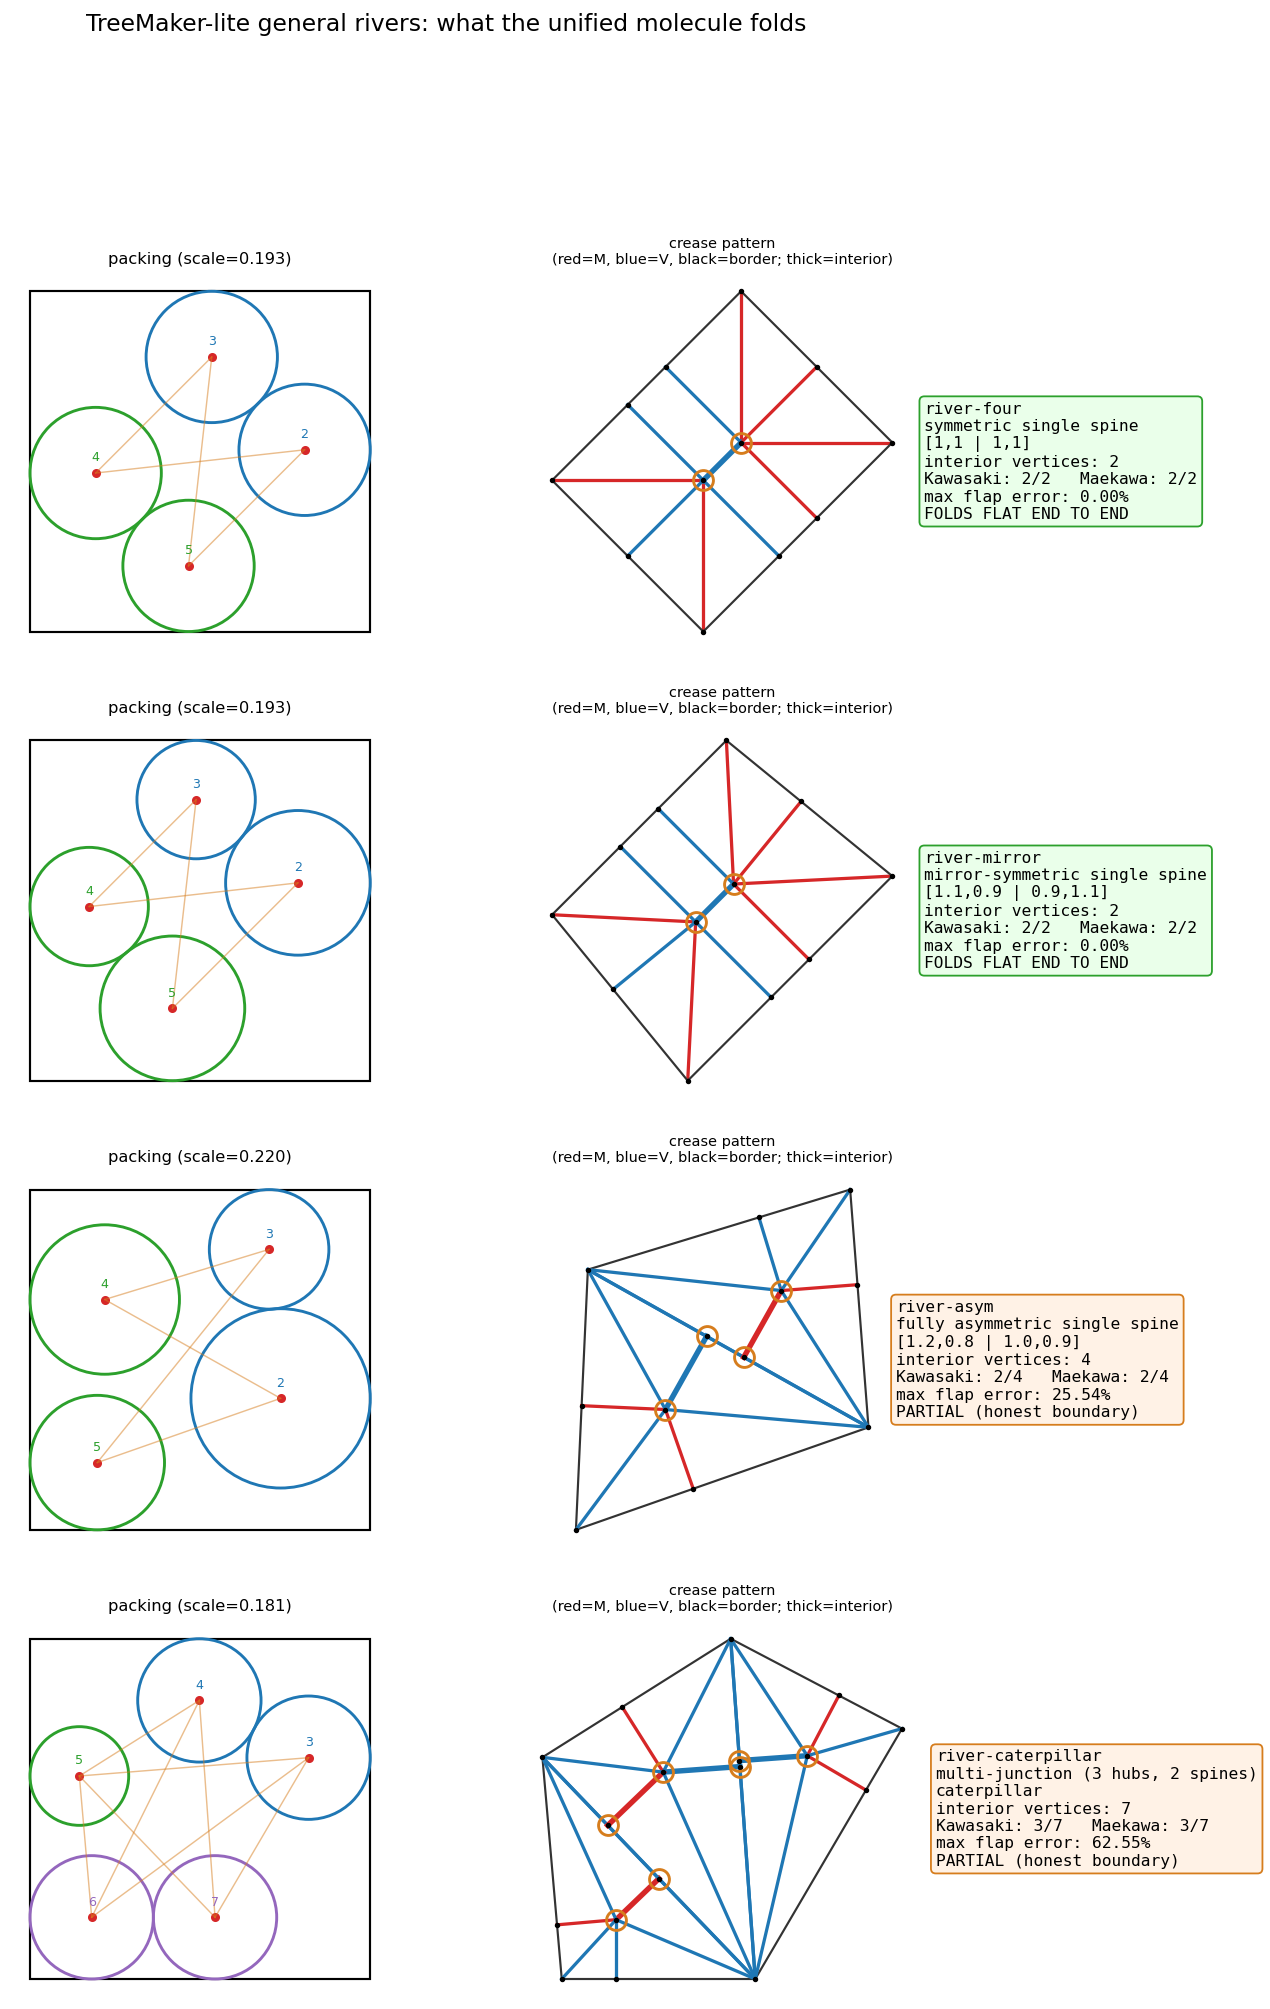
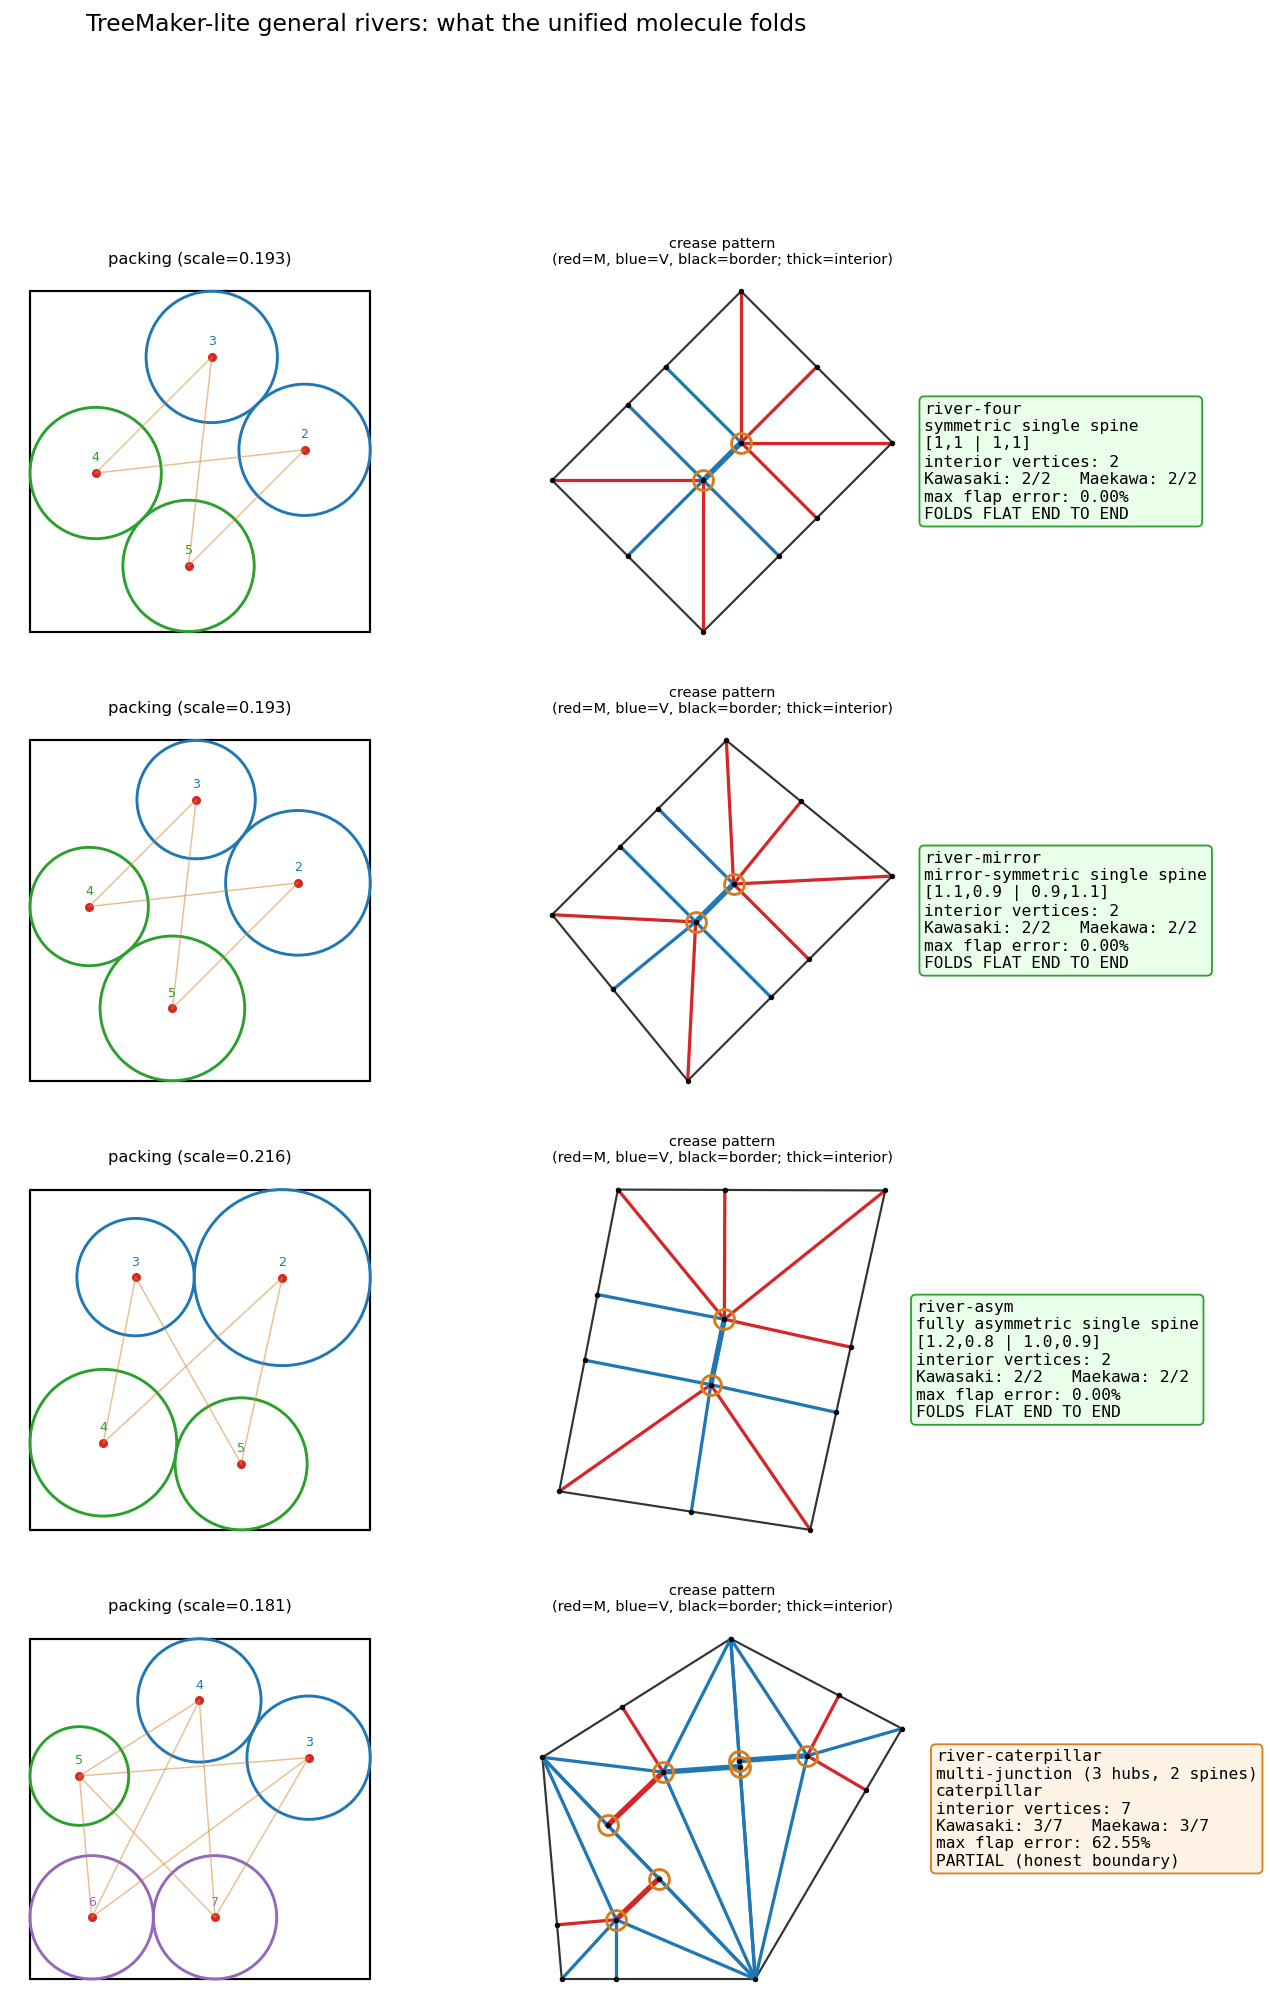
Rivers stage 4b: fully-asymmetric single-spine river folds flat
Fix at the packing phase: for a single-spine river with 2 leaves per hub,
pack_tree ties the four hull sides as equalities plus one angle equality
rho_A0*tan(theta_A0/2)=rho_A1*tan(theta_A1/2) (equalizing the two leaves'
natural-hub inradii so they share one incenter). Tries both hull orderings,
keeps the larger consistent scale, else old pack. river-asym now folds flat
(Kawasaki 2/2, Maekawa 2/2, 0% flap error, asymmetric flaps 1.2/0.8/1.0/0.9
preserved - independently verified). Stars byte-identical; molecule untouched.
Multi-junction still honest partial.

diff --git a/foldforge/design/treemaker.py b/foldforge/design/treemaker.py
@@ -70,26 +70,12 @@ Honest scope (see ``crease_pattern`` and the tests):
       are both internal hub nodes) - not the size of the gap - decides whether
       an edge is a spine that fires the sub-hub/spine-crease event. It is still
       built behind the honest self-check, so the harder topologies fall back to
-      the partial rabbit-ear base rather than fake a fold:
-        - a *fully* asymmetric single spine (unequal flaps AND unequal sides,
-          ``river-asym``) - diagnosed precisely (Stage 4): the two leaves at
-          each end of a river band each have their *own* natural hub point (the
-          intersection of the two perpendiculars raised at their rho-cut
-          border-tangent feet), fixed purely by that leaf's own rho and its two
-          incident edge directions. A single sub-hub can only work when a side's
-          leaves' natural hub points coincide (equal flaps, or the mirror case,
-          where the packing's own symmetry forces that); the fully-asymmetric
-          packing has no such symmetry, so ``river-asym``'s four natural hub
-          points are all different (by ~0.19-0.24, an order of magnitude past
-          the ~0.11 target spine length - not a small numerical residual). One
-          sub-hub incircle per side (the current construction) then satisfies
-          neither Kawasaki nor the true spine length at *either* hub. Reconciling
-          this needs the two mismatched natural points on a side joined by their
-          own internal gusset *and* the packing itself to place the river band
-          at the angle that gusset implies (today's ``pack_tree`` only enforces
-          pairwise distances, never the angle a straight single-crease spine
-          needs) - a change to the packing's optimisation, not just the molecule,
-          and out of this stage's bounded scope;
+      the partial rabbit-ear base rather than fake a fold. (Stage 4b: a fully
+      asymmetric 2+2 single spine, ``river-asym``, now folds flat - ``pack_tree``
+      holds the four hull sides tight and adds one angle equality,
+      ``rho_A0 tan(th_A0/2) = rho_A1 tan(th_A1/2)``, so each hub's two natural hub
+      points coincide; the other hub's condition then holds automatically.)
+      Still partial:
         - a *multi-junction* (>=3 hub) river (``river-caterpillar``) - its packed
           hull exposes more than two river edges, so the single-band spine event
           resolves one band but not the interior junction (a Y-junction / nested
@@ -189,12 +175,9 @@ def river_tree(spine: float, left: list[float], right: list[float],
     separated by the spine, which the packing honours by leaving an open river
     band between them. A single-spine river folds flat end to end whenever each
     side of the spine is one clean tangent fan whose incircle touch lengths equal
-    its flap radii - equal flaps, or unequal-but-mirror-symmetric flaps. A *fully*
-    asymmetric single spine (unequal flaps and unequal sides) or a multi-junction
-    river packs cleanly but falls back to the honest partial base, because a side
-    would then need an internal gusset the single spine event does not emit *and*
-    the packing itself would need to place the river band at the angle that
-    gusset implies (see the module docstring / Stage 4 boundary).
+    its flap radii. For a 2+2 single spine ``pack_tree`` places the four discs so
+    this holds even for fully asymmetric flaps and sides (Stage 4b). A
+    multi-junction river packs cleanly but falls back to the honest partial base.
     """
     edges = [(0, 1, spine)]
     nid = 2
@@ -224,16 +207,9 @@ BUILTIN_TREES = {
     # tangent fan whose incircle touch lengths equal the flap radii, so the spine
     # event closes it flat end to end - the asymmetric-flap river that folds.
     "river-mirror": river_tree(0.5, [1.1, 0.9], [0.9, 1.1], "river-mirror"),
-    # A *fully* asymmetric single spine (unequal flaps AND unequal sides). Packs
-    # with one benign slack hull edge (Stage 4 fills it anyway - see
-    # crease_pattern), but one sub-hub incircle per side cannot match both flap
-    # length and Kawasaki: each side's two leaves' own natural hub points (fixed
-    # by that leaf's rho and edge directions alone) land ~0.2 apart - an order
-    # of magnitude past the ~0.11 target spine length, not a small residual - so
-    # the side needs an internal gusset the spine event does not emit, and the
-    # packing itself would need extra angle constraints to place the band where
-    # that gusset requires - an honest partial base (see the module docstring /
-    # Stage 4 boundary).
+    # A *fully* asymmetric single spine (unequal flaps AND unequal sides). The
+    # packing adds the angle condition that makes one incentre per hub flap-correct
+    # (Stage 4b), so it folds flat end to end.
     "river-asym": river_tree(0.5, [1.2, 0.8], [1.0, 0.9], "river-asym"),
     # A multi-junction "caterpillar": leaves - hubA =spine= hubB =spine= hubC -
     # leaves (three hubs, two spines). The hull exposes more than two river edges,
@@ -277,6 +253,45 @@ class Packing:
         return np.array([self.scale * self.tree.flap_length(l) for l in self.leaves])
 
 
+def _adjacent_in_ring(ring, i, j) -> bool:
+    k = ring.index(i) if i in ring else None
+    return k is not None and j in (ring[(k - 1) % 4], ring[(k + 1) % 4])
+
+
+def _single_spine_rings(tree: MetricTree, leaves: list[int]):
+    """Cyclic hull orders for a single-spine river with two flaps per hub.
+
+    Returns the two candidate rings ``(A0, A1, B0, B1)`` / ``(A0, A1, B1, B0)`` of
+    disc rows (A0, A1 on one hub, B0, B1 on the other), or ``None`` for any other
+    tree (stars and other rivers keep the plain packing).
+
+    For such a quad with all four sides tight the two hubs' "natural hub points"
+    (the perpendiculars at each leaf's rho-cut feet) coincide for both hubs as soon
+    as they do for one - the two angle conditions are not independent - so a single
+    scalar constraint ``rho_A0 tan(th_A0/2) == rho_A1 tan(th_A1/2)`` on top of the
+    four tight sides makes one incentre per hub serve both its flaps and puts both
+    hubs on the common bisector (spine) line.
+    """
+    hubs = {tree.parent_hub(l) for l in leaves}
+    if len(hubs) != 2 or len(tree.nodes) != len(leaves) + 2 or len(leaves) != 4:
+        return None
+    ha, hb = sorted(hubs)
+    A = [i for i, l in enumerate(leaves) if tree.parent_hub(l) == ha]
+    B = [i for i, l in enumerate(leaves) if tree.parent_hub(l) == hb]
+    if len(A) != 2 or len(B) != 2:
+        return None
+    return [(A[0], A[1], B[0], B[1]), (A[0], A[1], B[1], B[0])]
+
+
+def _ring_consistent(c, ring, rho, d, sc, tol=1e-6) -> bool:
+    """The four ring sides are tight at the solved scale."""
+    for k in range(4):
+        i, j = ring[k], ring[(k + 1) % 4]
+        if abs(np.linalg.norm(c[i] - c[j]) - sc * d[i, j]) > tol:
+            return False
+    return True
+
+
 def pack_tree(tree: MetricTree) -> Packing:
     """Pack one disc per leaf into the unit square, maximising the scale.
 
@@ -305,26 +320,64 @@ def pack_tree(tree: MetricTree) -> Packing:
     def unpack(z):
         return z[:-1].reshape(n, 2), z[-1]
 
-    cons = []
-    for i in range(n):
-        for j in range(i + 1, n):
-            cons.append({
-                "type": "ineq",
-                "fun": (lambda z, i=i, j=j: (
-                    (c := unpack(z)[0])[i] - c[j]).dot(c[i] - c[j])
-                    - (z[-1] * d[i, j]) ** 2),
-            })
-    for i in range(n):
-        # disc must sit inside [0,1]^2: centre at least (scale*rho_i) from walls.
-        for axis in (0, 1):
-            cons.append({"type": "ineq",
-                         "fun": lambda z, i=i, a=axis: unpack(z)[0][i, a] - z[-1] * rho[i]})
-            cons.append({"type": "ineq",
-                         "fun": lambda z, i=i, a=axis: 1.0 - unpack(z)[0][i, a] - z[-1] * rho[i]})
+    def solve(ring):
+        """SLSQP pack; ``ring`` (4 disc rows, cyclic) adds the single-spine
+        constraints: its four hull sides tight and the angle condition that lets
+        one incentre per hub serve both its flaps (see ``_single_spine_rings``)."""
+        cons = []
+        for i in range(n):
+            for j in range(i + 1, n):
+                if ring is not None and _adjacent_in_ring(ring, i, j):
+                    continue                                   # added as equalities below
+                cons.append({
+                    "type": "ineq",
+                    "fun": (lambda z, i=i, j=j: (
+                        (c := unpack(z)[0])[i] - c[j]).dot(c[i] - c[j])
+                        - (z[-1] * d[i, j]) ** 2),
+                })
+        for i in range(n):
+            # disc must sit inside [0,1]^2: centre at least (scale*rho_i) from walls.
+            for axis in (0, 1):
+                cons.append({"type": "ineq",
+                             "fun": lambda z, i=i, a=axis: unpack(z)[0][i, a] - z[-1] * rho[i]})
+                cons.append({"type": "ineq",
+                             "fun": lambda z, i=i, a=axis: 1.0 - unpack(z)[0][i, a] - z[-1] * rho[i]})
+        if ring is not None:
+            for k in range(4):
+                i, j = ring[k], ring[(k + 1) % 4]
+                cons.append({
+                    "type": "eq",
+                    "fun": (lambda z, i=i, j=j: (
+                        (c := unpack(z)[0])[i] - c[j]).dot(c[i] - c[j])
+                        - (z[-1] * d[i, j]) ** 2),
+                })
 
-    bounds = [(0.0, 1.0)] * (2 * n) + [(1e-4, 2.0)]
-    res = minimize(lambda z: -z[-1], z0, method="SLSQP", bounds=bounds,
-                   constraints=cons, options={"maxiter": 400, "ftol": 1e-9})
+            def half_tan(c, k):                    # tan(theta_k / 2) at ring corner k
+                a, b, e = c[ring[(k - 1) % 4]], c[ring[k]], c[ring[(k + 1) % 4]]
+                u, v = a - b, e - b
+                cs = u.dot(v) / (np.linalg.norm(u) * np.linalg.norm(v))
+                return math.sqrt(max((1 - cs) / (1 + cs), 0.0))
+
+            cons.append({"type": "eq", "fun": lambda z: (
+                rho[ring[0]] * half_tan(unpack(z)[0], 0)
+                - rho[ring[1]] * half_tan(unpack(z)[0], 1))})
+
+        bounds = [(0.0, 1.0)] * (2 * n) + [(1e-4, 2.0)]
+        return minimize(lambda z: -z[-1], z0, method="SLSQP", bounds=bounds,
+                        constraints=cons, options={"maxiter": 400, "ftol": 1e-9})
+
+    rings = _single_spine_rings(tree, leaves)
+    if rings is None:
+        res = solve(None)
+    else:
+        best = None
+        for ring in rings:
+            r = solve(ring)
+            c, sc = unpack(r.x)
+            ok = r.success and _ring_consistent(c, ring, rho, d, sc)
+            if ok and (best is None or sc > unpack(best.x)[1]):
+                best = r
+        res = best if best is not None else solve(None)
 
     centers, scale = unpack(res.x)
     radii = scale * rho

diff --git a/tests/test_treemaker.py b/tests/test_treemaker.py
@@ -206,27 +206,17 @@ def test_reduced_dist_equals_radii_sum_on_star_hull(name):
         assert rd == pytest.approx(packing.radii[i] + packing.radii[j], abs=1e-9)
 
 
-def test_asymmetric_river_is_honestly_partial():
-    """Honest ceiling: a fully-asymmetric single spine does NOT fully fold yet.
+def test_asymmetric_river_folds_flat():
+    """A fully-asymmetric single spine folds flat once the packing is angle-aware.
 
-    Stage 4 diagnosed this precisely: each leaf has its own "natural" hub point
-    (fixed purely by its own rho and its two incident edge directions - the
-    intersection of the perpendiculars raised at its rho-cut border feet). A
-    single sub-hub per side only works when a side's leaves' natural points
-    coincide (equal flaps, or the packing-forced mirror-symmetric case);
-    river-asym's four natural points are all ~0.2 apart, an order of magnitude
-    past the ~0.11 target spine length, so no single incircle can serve as that
-    side's hub. Closing this needs both an internal gusset AND a packing that
-    places the river band at the angle that gusset implies (``pack_tree`` only
-    enforces pairwise distances today) - beyond the molecule alone, so the
-    self-check fails and it falls back to the partial base. This pins that
-    boundary so a regression that silently 'fixed' or faked it would fail
-    loudly.
+    ``pack_tree`` now holds the four hull sides tight and imposes
+    ``rho_A0 tan(th_A0/2) == rho_A1 tan(th_A1/2)`` on the 2+2 single-spine quad,
+    so each hub's leaves share one natural hub point (the two angle conditions
+    are not independent) and the existing spine event closes the base flat.
     """
-    from foldforge.design.treemaker import river_tree, design_base
-    tree = river_tree(0.5, [1.2, 0.8], [1.0, 0.9], "river-asym")
-    packing, pattern = design_base(tree)
+    packing, pattern = design_base(get_tree("river-asym"))
     report = foldability_report(pattern)
-    passes = all(v.kawasaki and v.maekawa for v in report.vertices)
-    assert not passes, "asymmetric river unexpectedly folds flat - update claims"
-    assert len(report.vertices) > 0                 # it still builds a real pattern
+    assert len(report.vertices) > 0
+    assert all(v.kawasaki and v.maekawa for v in report.vertices)
+    err = flap_length_errors(packing, pattern)
+    assert err.max() < 0.02, f"river-asym flap error {err.max():.4f}"

diff --git a/examples/treemaker_river_general.py b/examples/treemaker_river_general.py
@@ -3,14 +3,9 @@
 Runs every built-in river base end to end and draws, for each, its circle
 packing (river bands shaded), its crease pattern (mountain/valley/border, spine
 creases thickened, sub-hub nodes ringed) and an honest Kawasaki / Maekawa / flap
-verdict. Two of the four fold flat end to end (the symmetric and the
-mirror-symmetric single spine); the fully asymmetric and the multi-junction
-rivers are honest partials, and the panel says so per tree. Stage 4 removed the
-separate "is the hull reduced-tight" pre-check (``river-asym`` packs with one
-benign slack edge, not just river bands) so every disc-on-hull packing now gets
-a genuine attempt at the universal molecule before falling back - it still
-falls back for ``river-asym``, precisely diagnosed as needing an internal
-gusset *and* a packing change (see the module docstring), not faked.
+verdict. Three of the four fold flat end to end (symmetric, mirror-symmetric and
+fully asymmetric single spines - the last thanks to the angle-aware packing);
+the multi-junction river is an honest partial, and the panel says so.
 
     python examples/treemaker_river_general.py
 
